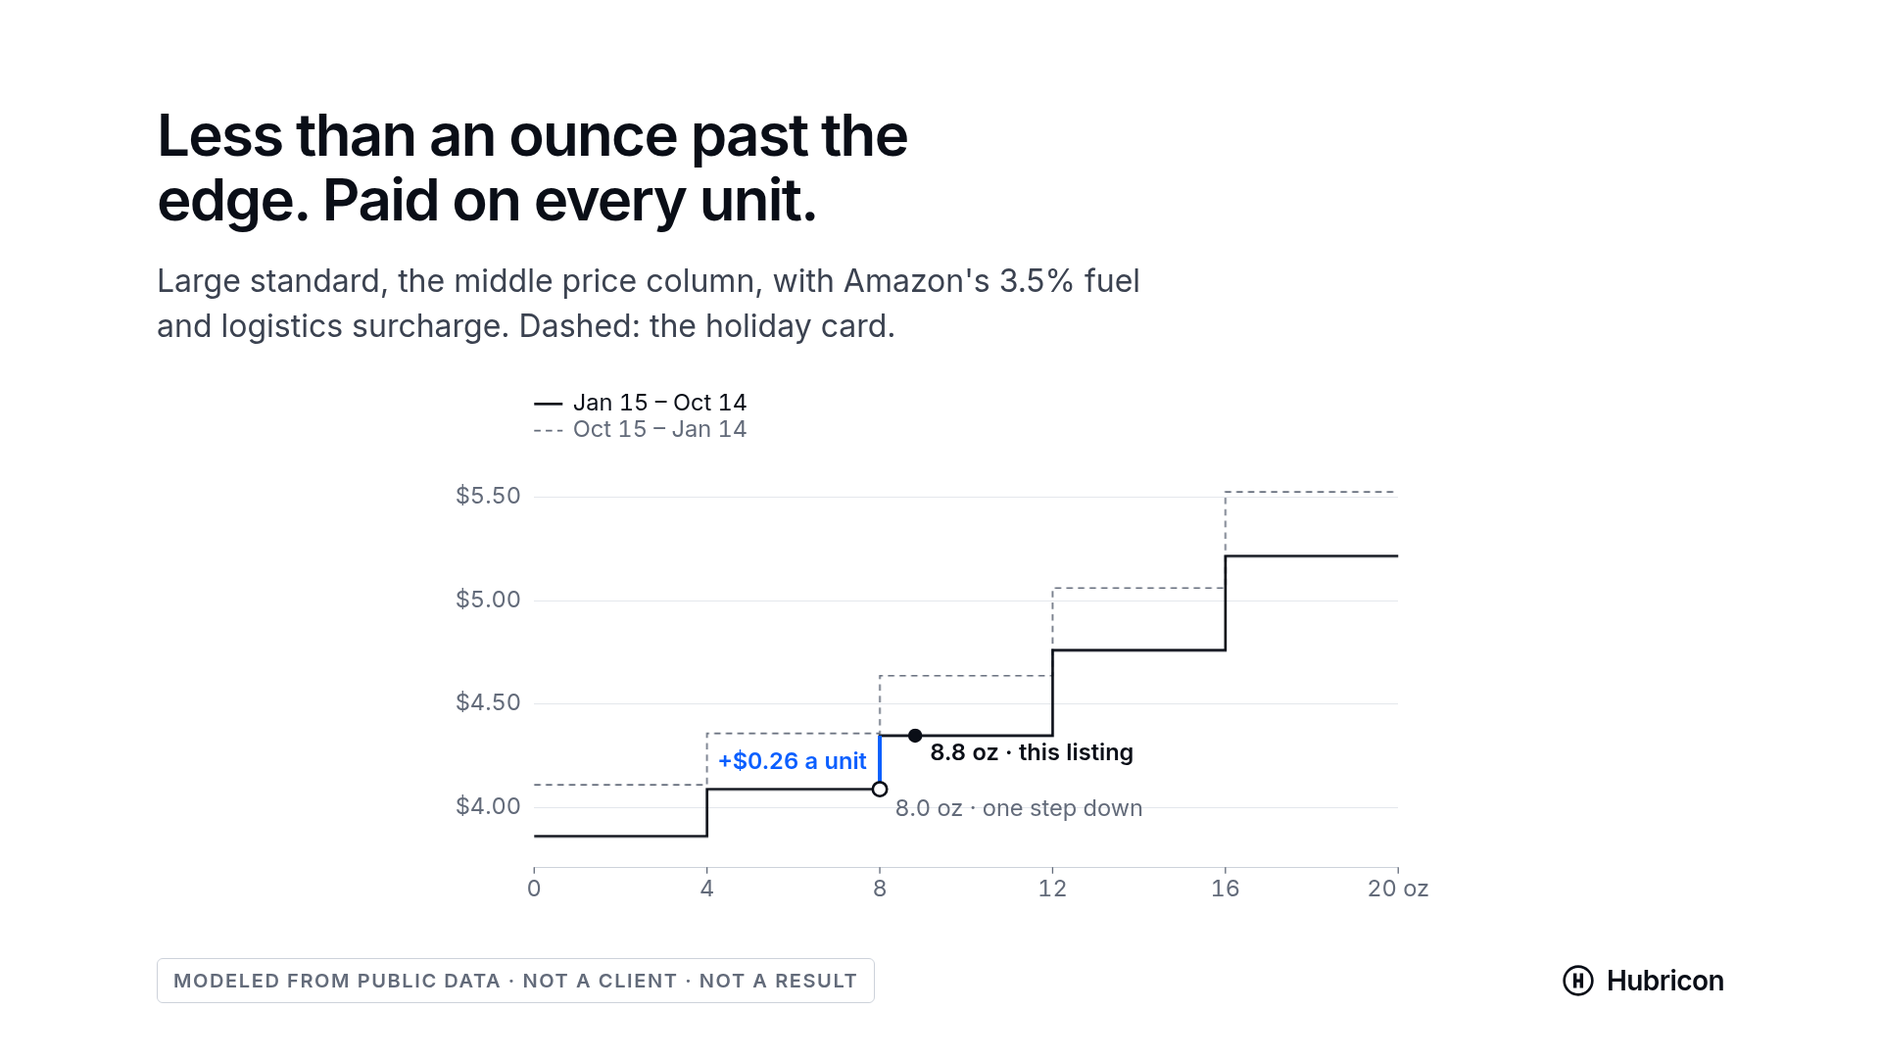
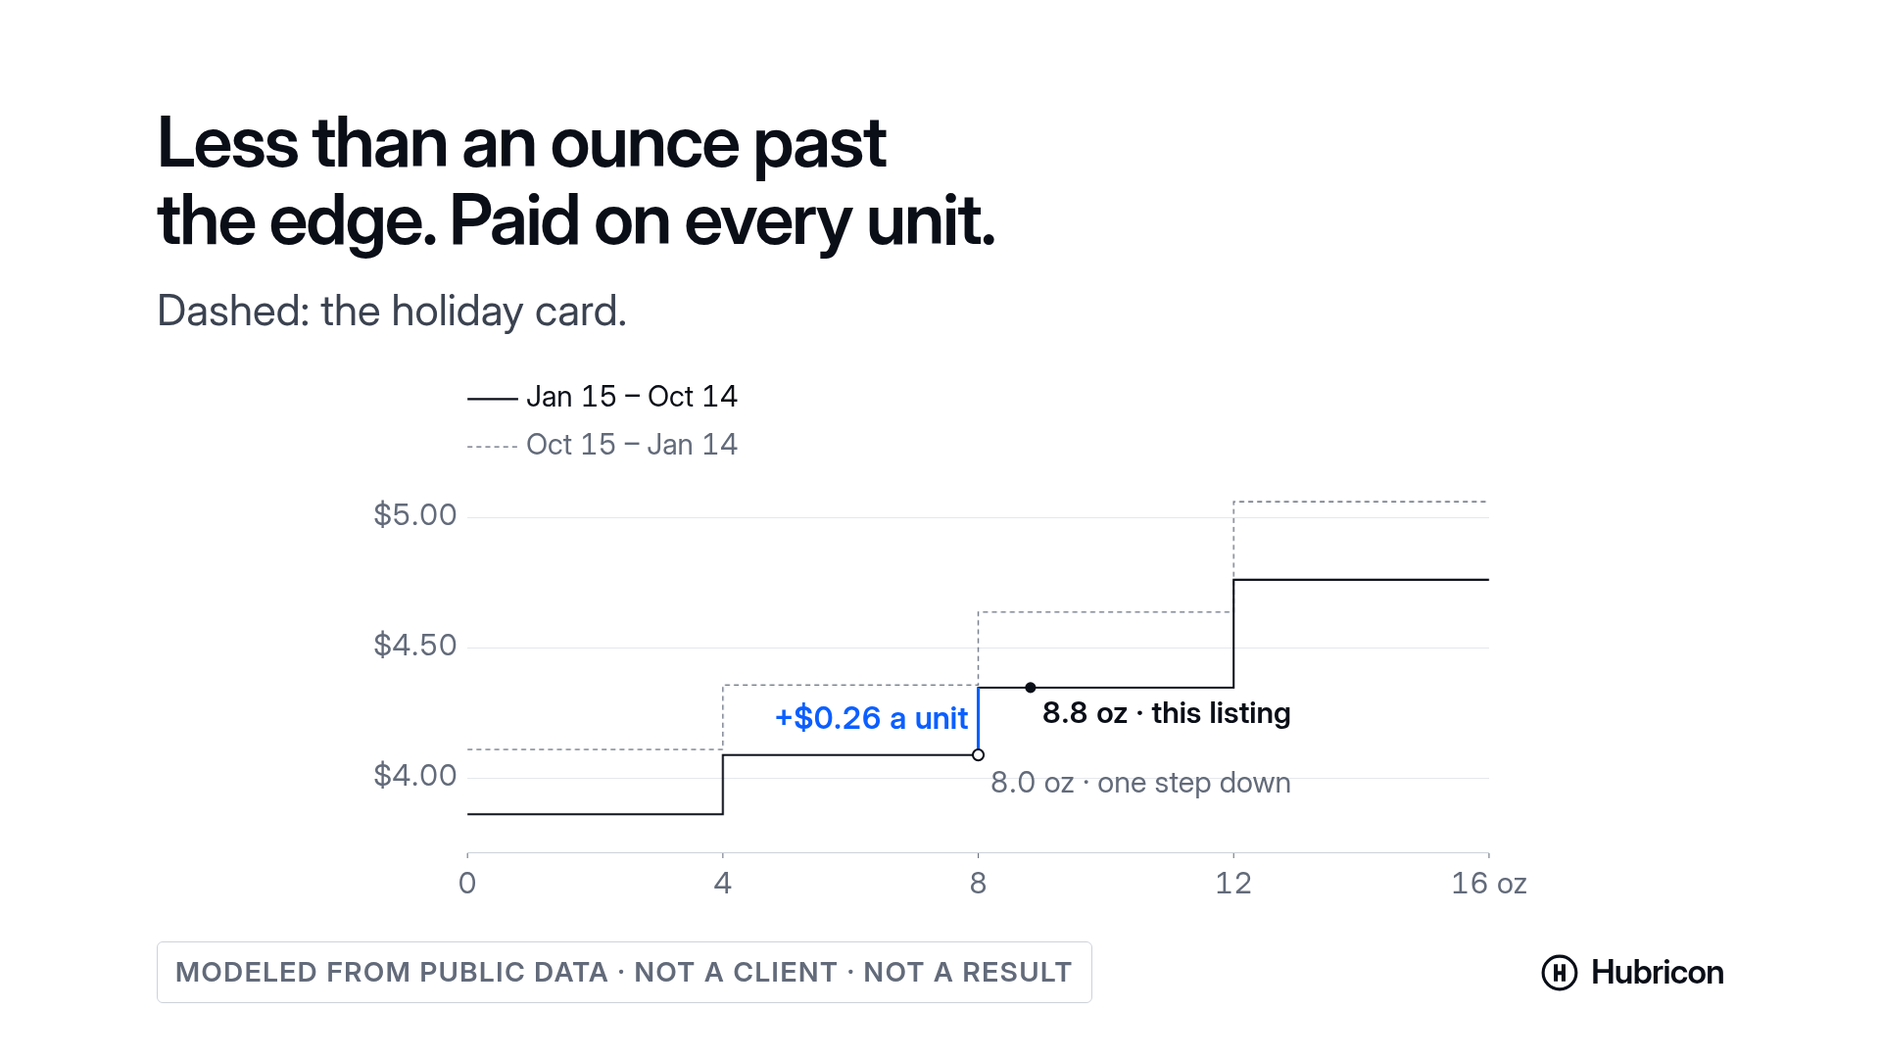
The films in Inter Display, at sizes a phone can read; the look is locked
The founder picked B from the type trial ("I do think that one's the best")
and liked the reel. So the films now:

- load Inter with its optical-size axis, so every big line takes Inter
  Display, as the site now does;
- set text a phone can read at 1080p: captions 44 px, headings 72 px, the
  "Modeled from public data" label 28 px, the mark 34 px;
- give a figure standing alone proportional digits;
- draw the house visuals with the same /assets/charts.mjs functions at film
  proportions, labels at font 30 in a 1200-wide box (about 40 px on screen,
  from about 16), the staircase taller and ending at 16 oz so the finding's
  label clears the lines;
- keep chart captions to a line; the narration carries the rest.

The reel passes the checklist (spelling, numbers, labels, colours, margins)
and the style is locked (content/assets/film-style-lock.json). F01 and T01
are approved on the founder's word ("I am liking everything I'm seeing"),
which opens the recorder; their old clone-narration step waits on his own
takes instead, as the spec orders.

Moat: brand (one typeface and one chart code across the site and the films)

diff --git a/content/film/film.css b/content/film/film.css
@@ -1,8 +1,9 @@
-/* The film's stage: the site's design system at 1920 × 1080. Every value is a token
+/* The film's stage: the site's design system at 1920 × 1080, in Inter Display at sizes a
+   phone can read (the founder's pick of four, 2026-09-30: text 40 px and up at 1080p). Every value is a token
    from /assets/hubricon.css; this file only lays the stage out and adds the one
    text entrance the charts do not already carry. Frozen with the style lock. */
 
-html, body { margin: 0; width: 1920px; height: 1080px; overflow: hidden; background: var(--paper); }
+html, body { margin: 0; font-optical-sizing: auto; width: 1920px; height: 1080px; overflow: hidden; background: var(--paper); }
 #stage { position: relative; width: 1920px; height: 1080px; overflow: hidden; }
 
 .scene { position: absolute; inset: 0; padding: 120px 160px 132px; display: flex; flex-direction: column; justify-content: center; }
@@ -13,17 +14,17 @@ html, body { margin: 0; width: 1920px; height: 1080px; overflow: hidden; backgro
 .display + .display { margin-top: 28px; }
 .display.small { font-size: 72px; max-width: 22ch; }
 .display .money { color: var(--blue); }
-.heading { font-size: 60px; font-weight: var(--strong); letter-spacing: -0.028em; line-height: 1.1; color: var(--ink); max-width: 28ch; }
-.caption { margin-top: 28px; font-size: 32px; line-height: 1.45; color: var(--ink-2); max-width: 52ch; }
-.number { font-size: 168px; font-weight: var(--strong); letter-spacing: -0.045em; line-height: 1; color: var(--blue); font-variant-numeric: tabular-nums; }
+.heading { font-size: 72px; font-weight: var(--strong); letter-spacing: -0.028em; line-height: 1.1; color: var(--ink); max-width: 28ch; }
+.caption { margin-top: 24px; font-size: 44px; line-height: 1.4; color: var(--ink-2); max-width: 46ch; }
+.number { font-size: 168px; font-weight: var(--strong); letter-spacing: -0.04em; line-height: 1; color: var(--blue); font-variant-numeric: lining-nums proportional-nums; }
 .number.ink { color: var(--ink); }   /* a figure that is not money or the leak */
-.number-sub { margin-top: 32px; font-size: 52px; font-weight: var(--strong); letter-spacing: -0.02em; color: var(--ink); max-width: 26ch; }
+.number-sub { margin-top: 32px; font-size: 56px; font-weight: var(--strong); letter-spacing: -0.02em; color: var(--ink); max-width: 26ch; }
 .est { font-size: 28px; color: var(--ink-3); vertical-align: 0.9em; margin-left: 12px; letter-spacing: 0.02em; font-weight: var(--regular); }
 
 /* A chart takes the stage's width; the site's own SVG, scaled. */
-.chart-frame { margin-top: 40px; flex: 1; min-height: 0; display: flex; align-items: center; }
-.chart-frame svg { width: 100%; height: 100%; max-height: 640px; }
-.chart-frame .chart text { font-size: inherit; }
+.chart-frame { margin-top: 32px; flex: 1; min-height: 0; display: flex; align-items: center; }
+.chart-frame svg { width: 100%; height: 100%; }
+
 
 .ctas { margin-top: 56px; display: flex; gap: 40px; align-items: center; }
 .cta-btn { display: inline-flex; align-items: center; gap: 20px; height: 96px; padding: 0 48px; border-radius: 16px; background: var(--ink); color: var(--paper); font-size: 40px; font-weight: var(--strong); }
@@ -34,9 +35,9 @@ html, body { margin: 0; width: 1920px; height: 1080px; overflow: hidden; backgro
 
 /* Always on a proof scene; never animated, never off. */
 .corner { position: absolute; left: 160px; right: 160px; bottom: 56px; display: flex; justify-content: space-between; align-items: center; }
-.corner .label-box { font-size: 20px; padding: 6px 16px; }
-.mark { display: inline-flex; align-items: center; gap: 12px; color: var(--ink); font-weight: var(--strong); font-size: 28px; letter-spacing: -0.02em; margin-left: auto; }
-.mark svg { width: 34px; height: 34px; }
+.corner .label-box { font-size: 28px; padding: 8px 18px; letter-spacing: 0.06em; }
+.mark { display: inline-flex; align-items: center; gap: 12px; color: var(--ink); font-weight: var(--strong); font-size: 34px; letter-spacing: -0.02em; margin-left: auto; }
+.mark svg { width: 40px; height: 40px; }
 
 /* Text arrives once: a short rise and fade, then still. --at staggers it. */
 .in { animation: film-in 700ms var(--ease-out) var(--at, 0ms) both; }

diff --git a/content/film/stage.html b/content/film/stage.html
@@ -3,7 +3,7 @@
 <head>
 <meta charset="utf-8">
 <title>Hubricon film stage</title>
-<link rel="stylesheet" href="https://fonts.googleapis.com/css2?family=Inter:wght@400;600&display=block">
+<link rel="stylesheet" href="https://fonts.googleapis.com/css2?family=Inter:opsz,wght@14..32,400;14..32,600&display=block">
 <link rel="stylesheet" href="/assets/hubricon.css">
 <link rel="stylesheet" href="/content/film/film.css">
 </head>

diff --git a/content/REVIEW.md b/content/REVIEW.md
@@ -1,136 +1,6 @@
 # Review inbox
 
-Updated 2026-10-01T04:55:04+00:00. Everything here is parked until you decide. Nothing renders before a script is approved; nothing uploads before the final sign-off.
-
-## T01 · day None · tier A · pillar 3 — script gate
-
-**Title:** October 15 ⟨peak_from⟩: what Amazon's holiday fees cost one listing, to the cent  
-**Thumbnail:** $0.29 ⟨cs_delta⟩ a unit, from October 15 ⟨peak_from⟩, in blue on the dashed holiday card  
-**Spiky claim:** The holiday card is a price rise Amazon charges you per unit, and your P&L won't show it until it has already been paid.  
-**Misconception:** Holiday fees are a seasonal blip: a little higher, volume's up anyway, it washes out.  
-**CTA:** The whole method and the spreadsheet, free at hubricon.com/learn  
-**Estimated runtime:** about 4 min 34 s · **voice:** placeholder until the clone exists
-
-### Hooks (the first is the one that ships unless you say otherwise)
-
-1. October 15 ⟨peak_from⟩. From that morning until January 14 ⟨peak_to⟩, every unit you ship through Amazon costs more to fulfil, and your P&L won't say so until it's been paid. Here's what it costs one real listing, to the cent.
-2. $0.29 ⟨cs_delta⟩ a unit. That's what Amazon's holiday card adds to one real listing from October 15 ⟨peak_from⟩. On its volume, that's $1,500 ⟨cs_window_lo⟩ to $4,600 ⟨cs_window_hi⟩ across the season, and nobody sent it a memo.
-3. $0.20 ⟨peak_min⟩ to $0.42 ⟨peak_max⟩ more a unit. That's Amazon's holiday card on standard-size products, row by row, from October 15 ⟨peak_from⟩. If you can't say what it costs your best seller, that's not a you problem.
-
-### Script
-
-**[0:00] HOOK**  
-October 15 ⟨peak_from⟩. From that morning until January 14 ⟨peak_to⟩, every unit you ship through Amazon costs more to fulfil, and your P&L won't say so until it's been paid. Here's what it costs one real listing, to the cent.  
-
-**[0:20] LET THEM BE WRONG**  
-Here's how most of us treat holiday fees. Amazon raises them a little for the season. Volume's up anyway. It washes out. It's a reasonable view, and it's how the fee usually gets handled, as weather. If you've never priced it, that's not a you problem. Nobody around you is running the math. The trouble is that it isn't the same for every product, and it lands on each unit, not on the average.  
-
-**[0:50] WHAT CHANGES**  
-Here's what changes. First, the fulfilment fee. From October 15 ⟨peak_from⟩ to January 14 ⟨peak_to⟩, Amazon prices every unit off a second card. On the standard-size rows it's $0.20 ⟨peak_min⟩ to $0.42 ⟨peak_max⟩ more a unit, depending on the weight and the price. Second, storage. From October to December, a cubic foot of standard-size stock costs $2.40 ⟨stor_peak⟩ a month, against $0.78 ⟨stor_off⟩ the rest of the year. And under both, the 3.5% ⟨surcharge⟩ fuel and logistics surcharge Amazon added in April stays on every fulfilment fee.  
-
-**[1:30] CHAPTER 1 — ONE LISTING, PRICED**  
-Here's what that means on one real listing, modeled from its public page: a car-care brand ⟨who⟩'s best-selling paint scratch remover. Until October 14 ⟨np_through⟩ it pays $4.35 ⟨cs_fee_np⟩ a unit to fulfil. From October 15 ⟨peak_from⟩, $4.64 ⟨cs_fee_peak⟩. That's $0.29 ⟨cs_delta⟩ a unit. Its public sales rank puts it at roughly 3,600 ⟨units⟩ units a month, and a rank is a rough guide, so we carry a range. Across the season, the holiday card costs this one listing $1,500 ⟨cs_window_lo⟩ to $4,600 ⟨cs_window_hi⟩. Nothing about the product changed. Nobody decided anything. The date did it.  
-
-**[2:10] CHAPTER 2 — THE STEPS GET STEEPER**  
-Here's the part most people miss. Amazon's card is a staircase, and a unit that sits a fraction of an ounce past an edge pays the whole step. This listing sits 0.8 of an ounce ⟨over⟩ past the 8 ounces ⟨edge⟩ edge. On the card in force until October 14 ⟨np_through⟩, that step costs it $0.26 ⟨step_np⟩ a unit. On the holiday card, $0.28 ⟨step_peak⟩. A step you were already paying for gets more expensive in the months you sell the most.  
-
-**[2:45] CHAPTER 3 — THE PRICE TRAP**  
-The reflex is to raise the price to cover it. Be careful where. On Amazon's card a price is a step too. Below $10 ⟨price_edge⟩, a unit pays the cheaper column. Move a price from under $10 ⟨price_edge⟩ to over it, and on the card in force the fulfilment fee alone goes up $0.85 ⟨ten_min⟩ to $1.05 ⟨ten_max⟩ a unit, before the holiday card adds its share. A small raise across that line can leave you with less per unit than you had. Check which column the new price lands in before you move it.  
-
-**[3:20] CHAPTER 4 — THE UNITS THAT SIT**  
-Then storage. From October to December, a cubic foot costs $2.40 ⟨stor_peak⟩ a month, against $0.78 ⟨stor_off⟩. The units that cost the most are the ones that don't move. And once a unit has sat 271 ⟨cliff_day⟩ days, the aged-inventory surcharge steps from $1.50 ⟨aged_before⟩ to $5.45 ⟨aged_after⟩ a cubic foot, on top of storage. Holiday storage on an old unit is the most expensive combination on Amazon's cards.  
-
-**[3:55] WHAT TO DO**  
-Here's the list, and you can do all of it before October 15 ⟨peak_from⟩. Price your best sellers on the holiday card, not the one you're used to. Find any that sit a fraction of an ounce past an edge: that step gets steeper now. If you're raising prices for the season, check which column of the card the new price lands in. And pull your inventory age report. For anything close to 271 ⟨cliff_day⟩ days, price what it costs to hold through December against what it costs to sell through or remove. The spreadsheet that does every one of these is free, with the course.  
-
-**[4:35] THE HONEST LIMIT**  
-What a public page can't tell you is how long your units have sat, what your ads cost you per sale, or how many come back. Those live in your own exports, and that's where most of the holiday money goes. You can build this yourself. If you're doing real volume and want it run with rigor, this is what I do, and I only get paid when it works.  
-*CTA:* The whole method and the spreadsheet are free at hubricon.com/learn.  
-
-### Shot list
-
-| at | scene | data source |
-|---|---|---|
-| 0:00 | number: {{peak_from}} lands alone, then {{peak_to}} beside it |  |
-| 0:20 | kinetic: the misconception in plain words, then "each unit, not the average" |  |
-| 0:50 | staircase: the card in force drawn solid, the holiday card dashed above it, the gap between them shaded | Amazon's published 2026 cards, both of them, with the surcharge |
-| 1:30 | number: {{cs_fee_np}} turns into {{cs_fee_peak}}, the difference in blue, then the season's range | the public-data case study, modeled from public data |
-| 2:10 | staircase: the listing's dot past the edge, the riser in blue on both cards | the public-data case study, modeled from public data |
-| 2:45 | formula: net per unit = the fee jump minus the price you gain, after referral | Amazon's published 2026 cards |
-| 3:20 | aging: storage plus the surcharge by age, the day-271 riser in blue | Amazon's published storage schedule, on the case-study unit's size, modeled from public data |
-| 3:55 | kinetic: the steps landing one at a time, then the template's One listing sheet |  |
-| 4:35 | kinetic: the closing line, then the method and the spreadsheet at hubricon.com/learn |  |
-
-### Decide
-
-```
-hubricon-content approve october-15
-hubricon-content reject  october-15 --note "what to change"
-```
-Edit `content/videos/october-15/script.md` first if you prefer; it is re-validated on approve.
-
-## F01 · day None · tier F · pillar 0 — script gate
-
-**Title:** One listing, a fraction of an ounce past an edge  
-**Thumbnail:** $0.26 ⟨step_np⟩ a unit, in blue, on the riser between the dots  
-**Spiky claim:** A P&L is an average, and a fee step only shows up as a counterfactual, so the reports you trust cannot show you this one.  
-**Misconception:** Amazon's fees creep up a little as a product gets heavier or pricier. Small change, small difference.  
-**CTA:** Book the call. Not ready yet? The whole method is free at hubricon.com/learn.  
-**Estimated runtime:** about 3 min 04 s · **voice:** placeholder until the clone exists
-
-### Hooks (the first is the one that ships unless you say otherwise)
-
-1. $0.26 ⟨step_np⟩ a unit. That's what one real listing pays, on every sale, for sitting 0.8 of an ounce ⟨over⟩ past an edge on Amazon's fee card. Its P&L will never show it. Here's why, and here's the arithmetic.
-2. $6,400 ⟨leak_p10⟩ to $19,200 ⟨leak_p90⟩ a year. That's what one listing pays on a single step of Amazon's fee staircase, for a fraction of an ounce. Nobody around it is running the math.
-3. 8.8 ounces ⟨weight⟩. That's the published weight of the listing in this film, and it sits a fraction of an ounce past an edge on Amazon's card. Your cost model is a line. Amazon's is a staircase.
-
-### Script
-
-**[0:00] HOOK**  
-$0.26 ⟨step_np⟩ a unit. That's what one real listing pays, on every sale, for sitting 0.8 of an ounce ⟨over⟩ past an edge on Amazon's fee card. Its P&L will never show it. Here's why, and here's the arithmetic.  
-
-**[0:15] THE STAIRCASE**  
-Most of us carry a mental model of cost that's a line. Heavier costs a little more. Pricier costs a little more. A small change makes a small difference. Amazon's fulfilment fee isn't a line. It's a staircase. It's flat for a stretch, then it steps, then it's flat again. Inside a step, another ounce costs nothing. Across an edge, the next ounce costs the whole step, on every unit, every month, until something moves.  
-
-**[0:45] WHERE THIS LISTING SITS**  
-This is a real listing, modeled from its public page and nothing else: a car-care brand ⟨who⟩'s best-selling paint scratch remover, in Automotive ⟨category⟩. Its page lists an item weight of 8.8 ounces ⟨weight⟩. The edge on the card is at 8 ounces ⟨edge⟩. So every unit it ships pays the next step up.  
-
-**[1:05] THE COUNTERFACTUAL**  
-Now the same listing, one step the other way. It would pay $0.26 ⟨step_np⟩ less a unit, and $0.28 ⟨step_peak⟩ less from October 15 ⟨peak_from⟩, when Amazon's holiday card takes over. No report shows you that, because the lighter version never shipped. A P&L is an average. A cliff is only visible as a counterfactual. On roughly 3,600 ⟨units⟩ units a month, that one step is worth $6,400 ⟨leak_p10⟩ to $19,200 ⟨leak_p90⟩ a year.  
-
-**[1:35] TEN THOUSAND YEARS**  
-That's a range, not a number, on purpose. Volume read from a public sales rank can be off by a long way in either direction. So we didn't take one guess. We ran this listing's year 10,000 ⟨years⟩ times, with volume and cost moving the way they really move, and read the spread. Each faint line is one of those years. The band is where most of them land, the bad end included. Months at a loss, before ads, storage and returns: 0 ⟨months_losing⟩ of 120,000 ⟨months_total⟩.  
-
-**[2:00] THE CLIFF, AND THE GAP**  
-There's a bigger step that no public page can show. Once a unit has sat 271 ⟨cliff_day⟩ days in Amazon's warehouse, its storage surcharge goes from $1.50 ⟨aged_before⟩ to $5.45 ⟨aged_after⟩ a cubic foot, overnight. How close this brand's stock sits to that line, its page doesn't say. It doesn't show ads, either, or returns. That's the gap, and only your own exports close it.  
-
-**[2:25] WHAT THIS IS**  
-We picked this listing because it had a finding. Of 1,856 ⟨brands_modeled⟩ Amazon brands we've modeled from public pages, 1,473 ⟨brands_silent⟩ showed nothing worth fixing, and we say so. On a call, we look at your own numbers with you, and if the arithmetic doesn't clear our fee at your size, we tell you that too.  
-
-**[2:45] THE CLOSE**  
-You can build this yourself. If you're doing real volume and want it run with rigor, this is what I do, and I only get paid when it works.  
-*CTA:* Book the call. Not ready yet? The whole method is free at hubricon.com/learn.  
-
-### Shot list
-
-| at | scene | data source |
-|---|---|---|
-| 0:00 | number: {{step_np}} lands alone, then the words "a unit, on every sale" |  |
-| 0:15 | kinetic: "Your mental model is linear." then "Amazon's cost structure is a staircase." |  |
-| 0:45 | number: the published weight in ink, then where the edge is | the public-data case study, modeled from public data |
-| 1:05 | staircase: the hollow dot one step down, the riser between the two in blue, the yearly range beneath | the public-data case study, modeled from public data |
-| 1:35 | montecarlo: the paths fan out from today, settle to almost nothing, then the band fills | the public-data case study, modeled from public data |
-| 2:00 | aging: storage plus the surcharge by age, the day-271 riser in blue | Amazon's published storage schedule, on the case-study unit's size, modeled from public data |
-| 2:25 | number: {{brands_silent}} of {{brands_modeled}}, the words "nothing worth fixing" beneath |  |
-| 2:45 | kinetic: the two ways out, the call and the course, the call first |  |
-
-### Decide
-
-```
-hubricon-content approve case-study-film
-hubricon-content reject  case-study-film --note "what to change"
-```
-Edit `content/videos/case-study-film/script.md` first if you prefer; it is re-validated on approve.
+Updated 2026-10-01T04:59:09+00:00. Everything here is parked until you decide. Nothing renders before a script is approved; nothing uploads before the final sign-off.
 
 ## V01 · day 1 · tier A · pillar 4 — script gate
 

diff --git a/content/STATE.md b/content/STATE.md
@@ -1,6 +1,6 @@
 # Content pipeline — state
 
-Updated 2026-10-01T04:55:04+00:00 · style locked: False
+Updated 2026-10-01T04:59:09+00:00 · style locked: False
 
 ## Capabilities
 
@@ -18,8 +18,6 @@ Updated 2026-10-01T04:55:04+00:00 · style locked: False
 
 ## Awaiting your review
 
-- T01 · October 15: what Amazon's holiday fees cost one listing, to the cent · gate `review` → see `content/REVIEW.md`
-- F01 · The case-study film: one listing, a fraction of an ounce past an edge · gate `review` → see `content/REVIEW.md`
 - V01 · Why most business advice is useless: survivorship bias, with numbers · gate `review` → see `content/REVIEW.md`
 - V04 · Your A/B test told you nothing. Here's the sample size you needed · gate `review` → see `content/REVIEW.md`
 - V05 · Cash conversion cycle: the number that decides whether you survive · gate `review` → see `content/REVIEW.md`
@@ -39,6 +37,8 @@ Updated 2026-10-01T04:55:04+00:00 · style locked: False
 
 ## Blocked on founder input
 
+- T01 · October 15: what Amazon's holiday fees cost one listing, to the cent: The founder's own takes first (HUBRICON_SPEC.md): node content/film/record.mjs october-15, then node content/film/render.mjs content/videos/october-15/board.json content/videos/october-15/media/master.mp4 --audio content/videos/october-15/takes, then node content/film/check.mjs on both. The Manim steps (timing, scenes, assemble) do not apply to the films.
+- F01 · The case-study film: one listing, a fraction of an ounce past an edge: The founder's own takes first (HUBRICON_SPEC.md): node content/film/record.mjs case-study-film, then node content/film/render.mjs content/videos/case-study-film/board.json content/videos/case-study-film/media/master.mp4 --audio content/videos/case-study-film/takes, then node content/film/check.mjs on both. The Manim steps (timing, scenes, assemble) do not apply to the films.
 - V02 · The $48,000 Amazon owes you and will never mention: Needs the founder's raw Seller Central screen recording (doctrine §10). The script and shot list are pre-written from recovery.run on demo data so only the recording remains. Protected Playbook feeder.
 - V03 · Your bestseller might be your worst product. Here's how to check: Needs real SKU economics screenshots from Seller Central (doctrine §10). Engine-only variant on demo data is possible if the founder prefers; ask before promoting.
 - V06 · Your FBA fee is not your FBA fee: Needs real fee preview and settlement screenshots from Seller Central.
